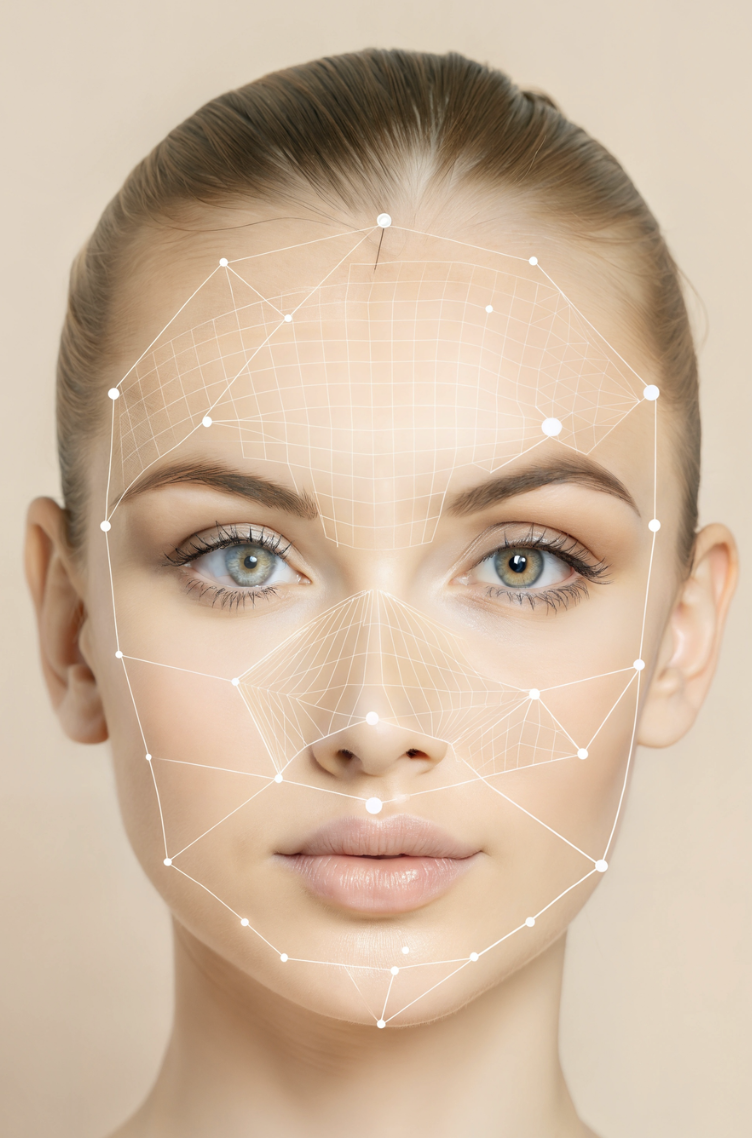
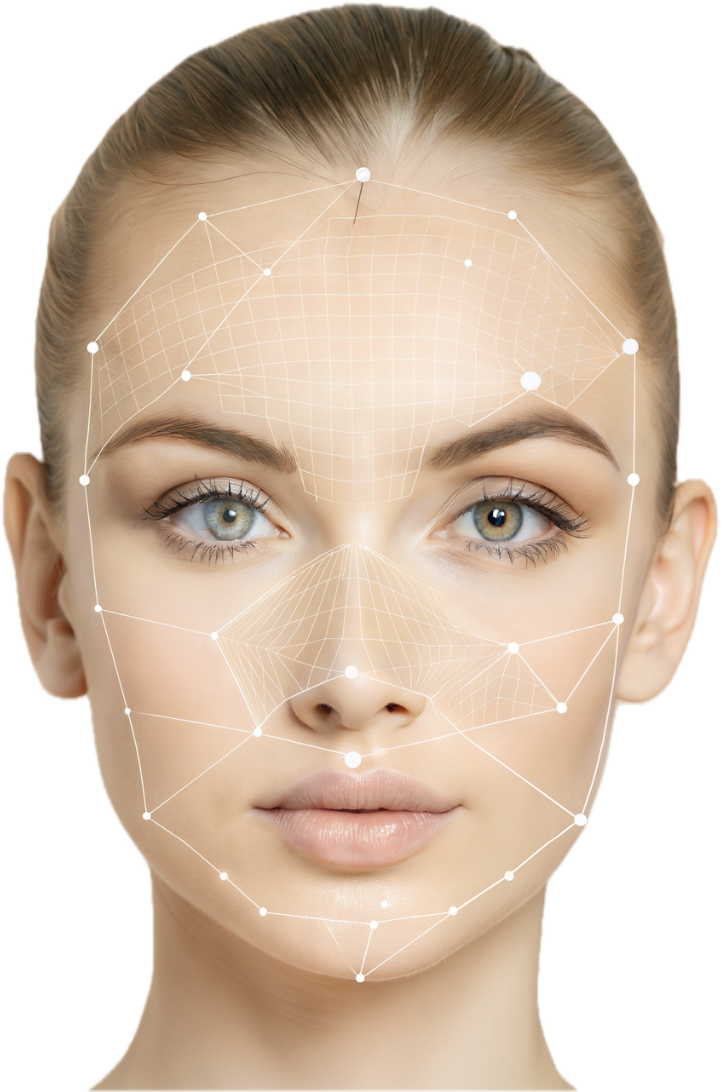
feat(landing): transparent-bg hero + premium 3-layer gradient
The portrait asset now ships with a background-removed alpha
channel, which lets us drive the hero's backdrop entirely in CSS.
The flat #ead8c9 beige is replaced by a layered gradient that
reads as soft-box studio lighting around the portrait.

PNG asset
* RGBA, 31 % of pixels transparent (the cut-out background).
* Pre-cropped from 752 × 1138 → 721 × 1092 by tightening to the
  alpha bounding box (left 21 px / right 10 px / top 46 px of
  transparent padding removed). The face now sits dead-centre
  inside the asset, so `object-fit: contain` renders it centred in
  the hero without per-asset position tweaks.

CSS — `.intro-hero` background
* 3-layer composition stacked back-to-front:
  1. `radial-gradient` warm rose glow centred at 50 % top — ties
     to the `--rose` palette token, warms the area behind the hair.
  2. `radial-gradient` lavender glow centred at 50 % bottom —
     cools off the lower third without competing with the chin.
  3. `linear-gradient` cream → peach base (180 deg) — keeps the
     overall feel within the existing palette.
* Each radial caps at ~70 % alpha so neither dominates; the base
  carries the rest. The result reads like a soft-box frame around
  the portrait rather than a flat card.
* The two transparent slivers on the left + right of the centred
  image (the hero is 311 × 380, the contained image is ~251 × 380)
  now show the gradient directly — desired effect.

CSS — `.intro-hero-image`
[…]

diff --git a/frontend/src/index.css b/frontend/src/index.css
@@ -618,22 +618,27 @@ select {
 .intro-hero {
   position: relative;
   margin: 8px var(--side-margin) 16px;
-  /* Sized to match the portrait asset's aspect ratio (752 / 1138 ≈
-     0.661) so `object-fit: contain` shows the entire image without
-     cropping AND without leaving empty space on the sides.  At
-     `--mobile-width` 375 px minus two 32 px side margins, the hero
-     is 311 px wide; 311 / 0.661 ≈ 471 px tall would match the asset
-     exactly, but that overflows the iPhone X (812 px) viewport. We
-     compromise at 380 px tall: most of the hero card area is filled
-     by the image, the small slivers of background on the left + right
-     edges blend seamlessly into the hero's beige background. */
   height: 380px;
   border-radius: var(--r-2xl);
   overflow: hidden;
-  /* Both a decode-state fallback and the colour visible alongside
-     the contained image — matches the photo's beige skin tone so
-     the seam between image and hero is invisible. */
-  background: #ead8c9;
+  /* Premium 3-layer gradient.  The face PNG now has a transparent
+     background, so this gradient is what the viewer actually SEES
+     around the face — including the small slivers on the left and
+     right where `object-fit: contain` leaves room.  Composition:
+       1. Soft rose glow at the top-centre — warms the area behind
+          the hair, ties into the brand `--rose` token.
+       2. Lavender glow at the bottom-centre — cools off the lower
+          third, ties into `--lavender`.
+       3. Warm cream → peach linear base, low-contrast and slightly
+          gradient so the background reads as alive, not flat.
+     Numbers are tuned so that no single layer dominates: each
+     contributes ~25–40 % alpha, the base does the rest.  The
+     result feels like a soft-box studio lighting frame around the
+     portrait — premium beauty-tech rather than poster-flat. */
+  background:
+    radial-gradient(70% 55% at 50% 8%, rgba(253, 228, 228, 0.85) 0%, transparent 75%),
+    radial-gradient(75% 55% at 50% 100%, rgba(241, 233, 255, 0.7) 0%, transparent 75%),
+    linear-gradient(180deg, #fff6e5 0%, #fbeae0 100%);
   isolation: isolate; /* keeps the scan-line's blend-mode contained */
 }
 
@@ -642,8 +647,12 @@ select {
   inset: 0;
   width: 100%;
   height: 100%;
-  /* `contain` (instead of `cover`) shows the photo at its full
-     original aspect ratio — no top-of-head crop, no chin crop. */
+  /* `contain` shows the photo at its full original aspect ratio —
+     no crop on the top of the head, no crop under the chin.  The
+     PNG is pre-cropped to its alpha bounding box (721 × 1092) so
+     the visible content is the face only; the slivers on the left
+     and right of the hero are filled by the gradient above, which
+     reads as a soft-box frame around the portrait. */
   object-fit: contain;
   object-position: center;
   display: block;
